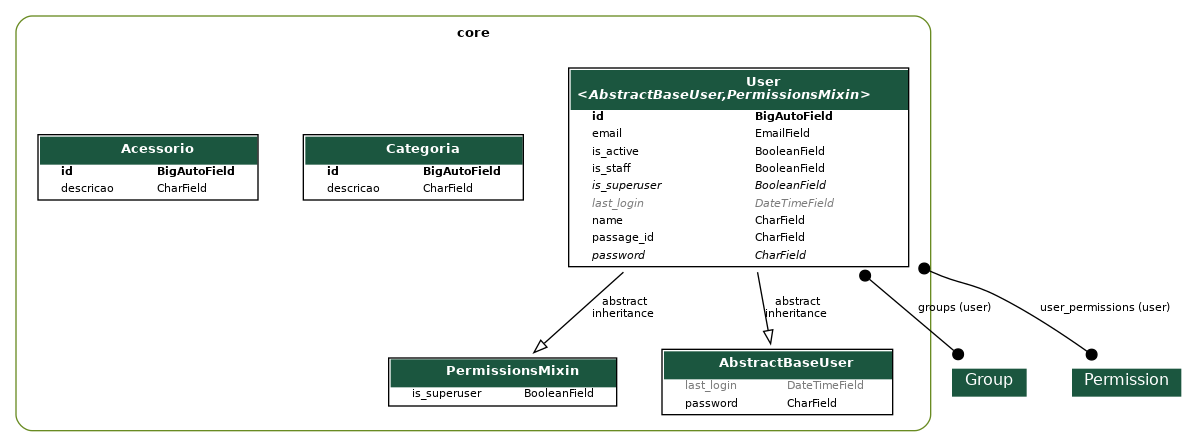
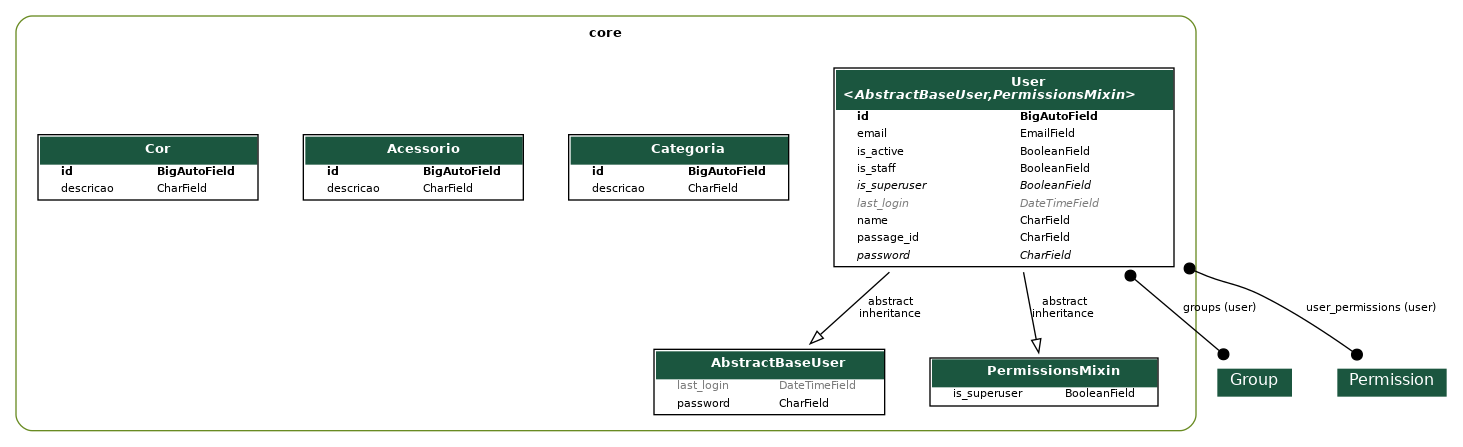
criação de cor

diff --git a/core/migrations/0004_cor.py b/core/migrations/0004_cor.py
@@ -1,0 +1,20 @@
+# Generated by Django 5.0.6 on 2024-07-12 17:53
+
+from django.db import migrations, models
+
+
+class Migration(migrations.Migration):
+
+    dependencies = [
+        ("core", "0003_acessorio"),
+    ]
+
+    operations = [
+        migrations.CreateModel(
+            name="Cor",
+            fields=[
+                ("id", models.BigAutoField(auto_created=True, primary_key=True, serialize=False, verbose_name="ID")),
+                ("descricao", models.CharField(max_length=100)),
+            ],
+        ),
+    ]

diff --git a/core/admin.py b/core/admin.py
@@ -52,3 +52,4 @@ class UserAdmin(BaseUserAdmin):
 admin.site.register(models.User, UserAdmin)
 admin.site.register(models.Categoria)
 admin.site.register(models.Acessorio)
+admin.site.register(models.Cor)

diff --git a/core/models/cor.py b/core/models/cor.py
@@ -1,0 +1,7 @@
+from django.db import models
+
+class Cor(models.Model):
+    descricao = models.CharField(max_length=100)
+
+    def __str__(self):
+        return f"{self.descricao}"

diff --git a/core/models/__init__.py b/core/models/__init__.py
@@ -1,3 +1,4 @@
 from .user import User
 from .categoria import Categoria
 from .acessorio import Acessorio
+from .cor import Cor
